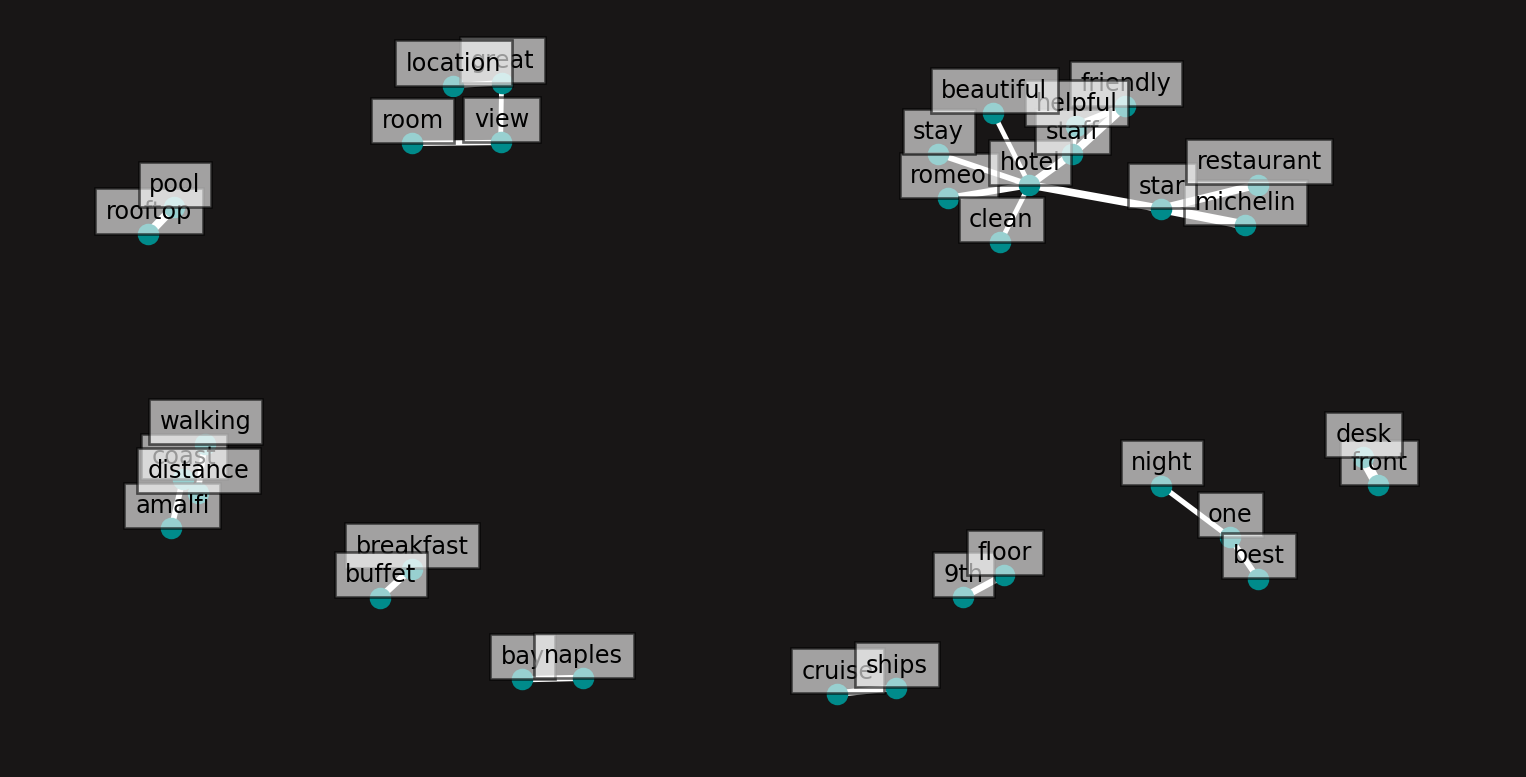
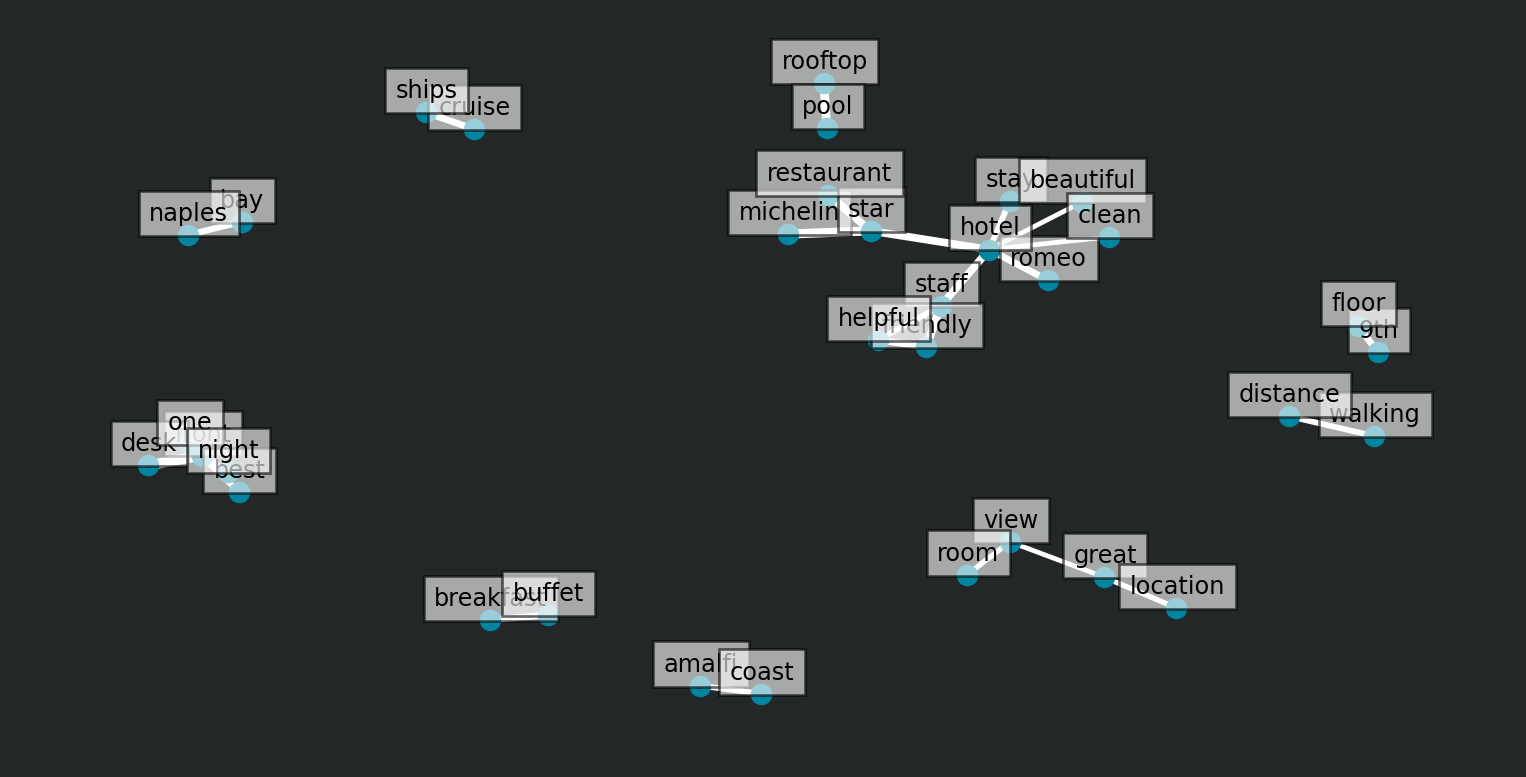
new commit

diff --git a/docs/projects/tripscraper/index.html b/docs/projects/tripscraper/index.html
@@ -257,7 +257,7 @@ gtag('config', 'G-BEX0MX4L1P', { 'anonymize_ip': true});
 <span id="annotated-cell-1-44"><a href="#annotated-cell-1-44" aria-hidden="true" tabindex="-1"></a>                     font_size<span class="op">=</span><span class="dv">12</span>,</span>
 <span id="annotated-cell-1-45"><a href="#annotated-cell-1-45" aria-hidden="true" tabindex="-1"></a>                     width<span class="op">=</span><span class="bu">list</span>(weights),</span>
 <span id="annotated-cell-1-46"><a href="#annotated-cell-1-46" aria-hidden="true" tabindex="-1"></a>                     edge_color<span class="op">=</span><span class="st">'white'</span>,</span>
-<span id="annotated-cell-1-47"><a href="#annotated-cell-1-47" aria-hidden="true" tabindex="-1"></a>                     node_color<span class="op">=</span><span class="st">'#008b8b'</span>,</span>
+<span id="annotated-cell-1-47"><a href="#annotated-cell-1-47" aria-hidden="true" tabindex="-1"></a>                     node_color<span class="op">=</span><span class="st">'#0085A1'</span>,</span>
 <span id="annotated-cell-1-48"><a href="#annotated-cell-1-48" aria-hidden="true" tabindex="-1"></a>                     with_labels<span class="op">=</span><span class="va">False</span>,</span>
 <span id="annotated-cell-1-49"><a href="#annotated-cell-1-49" aria-hidden="true" tabindex="-1"></a>                     ax<span class="op">=</span>ax,</span>
 <span id="annotated-cell-1-50"><a href="#annotated-cell-1-50" aria-hidden="true" tabindex="-1"></a>                     node_size<span class="op">=</span><span class="dv">50</span>)</span>
@@ -269,7 +269,7 @@ gtag('config', 'G-BEX0MX4L1P', { 'anonymize_ip': true});
 <span id="annotated-cell-1-56"><a href="#annotated-cell-1-56" aria-hidden="true" tabindex="-1"></a>                s<span class="op">=</span>key,</span>
 <span id="annotated-cell-1-57"><a href="#annotated-cell-1-57" aria-hidden="true" tabindex="-1"></a>                bbox<span class="op">=</span><span class="bu">dict</span>(facecolor<span class="op">=</span><span class="st">'white'</span>, alpha<span class="op">=</span><span class="fl">0.60</span>),</span>
 <span id="annotated-cell-1-58"><a href="#annotated-cell-1-58" aria-hidden="true" tabindex="-1"></a>                horizontalalignment<span class="op">=</span><span class="st">'center'</span>, fontsize<span class="op">=</span><span class="dv">9</span>)</span>
-<span id="annotated-cell-1-59"><a href="#annotated-cell-1-59" aria-hidden="true" tabindex="-1"></a>    fig.set_facecolor(<span class="st">'#181616'</span>)</span>
+<span id="annotated-cell-1-59"><a href="#annotated-cell-1-59" aria-hidden="true" tabindex="-1"></a>    fig.set_facecolor(<span class="st">'#242728'</span>)</span>
 <span id="annotated-cell-1-60"><a href="#annotated-cell-1-60" aria-hidden="true" tabindex="-1"></a>    </span>
 <span id="annotated-cell-1-61"><a href="#annotated-cell-1-61" aria-hidden="true" tabindex="-1"></a>    plt.axis(<span class="st">'off'</span>)</span><div class="code-annotation-gutter-bg"></div><div class="code-annotation-gutter"></div></code><button title="Copy to Clipboard" class="code-copy-button"><i class="bi"></i></button></pre></div>
 </details>
@@ -277,7 +277,7 @@ gtag('config', 'G-BEX0MX4L1P', { 'anonymize_ip': true});
 <dl class="code-annotation-container-hidden code-annotation-container-grid">
 <dt data-target-cell="annotated-cell-1" data-target-annotation="1">1</dt>
 <dd>
-<span data-code-lines="15" data-code-annotation="1" data-code-cell="annotated-cell-1">Defining a <code>tupler</code> function for handling csv read file</span>
+<span data-code-cell="annotated-cell-1" data-code-annotation="1" data-code-lines="15">Defining a <code>tupler</code> function for handling csv read file</span>
 </dd>
 </dl>
 </div>

diff --git a/docs/projects.html b/docs/projects.html
@@ -162,7 +162,7 @@ gtag('config', 'G-BEX0MX4L1P', { 'anonymize_ip': true});
 
 <div class="quarto-listing quarto-listing-container-grid" id="listing-listing">
 <div class="list grid quarto-listing-cols-3">
-<div class="g-col-1" data-index="0" data-categories="app,nlp,streamlit" data-listing-date-sort="1688940000000" data-listing-file-modified-sort="1698441867460" data-listing-date-modified-sort="NaN" data-listing-reading-time-sort="4">
+<div class="g-col-1" data-index="0" data-categories="app,nlp,streamlit" data-listing-date-sort="1688940000000" data-listing-file-modified-sort="1699346838463" data-listing-date-modified-sort="NaN" data-listing-reading-time-sort="4">
 <a href="./projects/tripscraper/index.html" class="quarto-grid-link">
 <div class="quarto-grid-item card h-100 card-left">
 <p class="card-img-top">

diff --git a/dark-theme.scss b/dark-theme.scss
@@ -2,6 +2,8 @@
 
 // Import fonts (define mainfont in _quarto.yml)
 @import url('https://fonts.googleapis.com/css2?family=Montserrat:wght@400;800&family=Nunito:wght@300;800&family=Roboto+Mono:wght@400;700&display=swap');
+//@import url('https://fonts.googleapis.com/css2?family=Noto+Sans+JP&display=swap');
+
 
 // personal palette
 $blue-munsell: #0085A1;
@@ -9,6 +11,7 @@ $cerulean: #006B86;
 $midnight-green: #00526c;
 $indigo-dye: #003a53;
 $prussian-blue: #00243c;
+$dark-cyan: #008B8B;
 $moonstone: #00a2ab;
 $davy-gray: #5A5856;
 $battleship-gray: #949799;

diff --git a/light-theme.scss b/light-theme.scss
@@ -10,6 +10,7 @@ $cerulean: #006B86;
 $midnight-green: #00526c;
 $indigo-dye: #003a53;
 $prussian-blue: #00243c;
+$dark-cyan: #008B8B;
 $moonstone: #00a2ab;
 $davy-gray: #5A5856;
 $battleship-gray: #949799;
